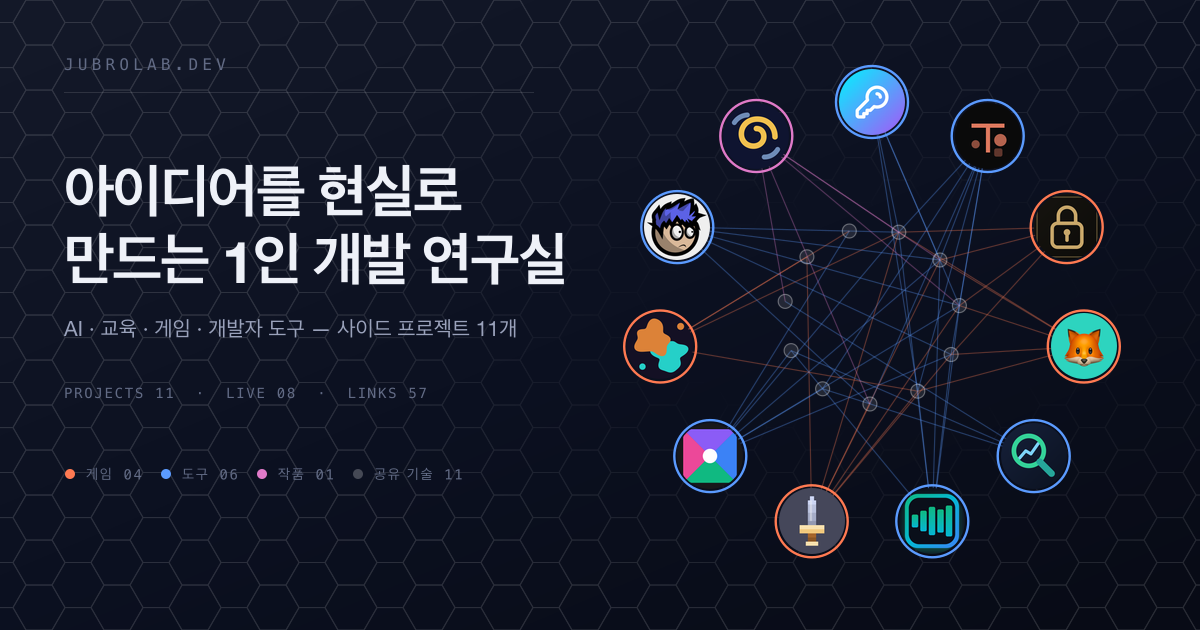
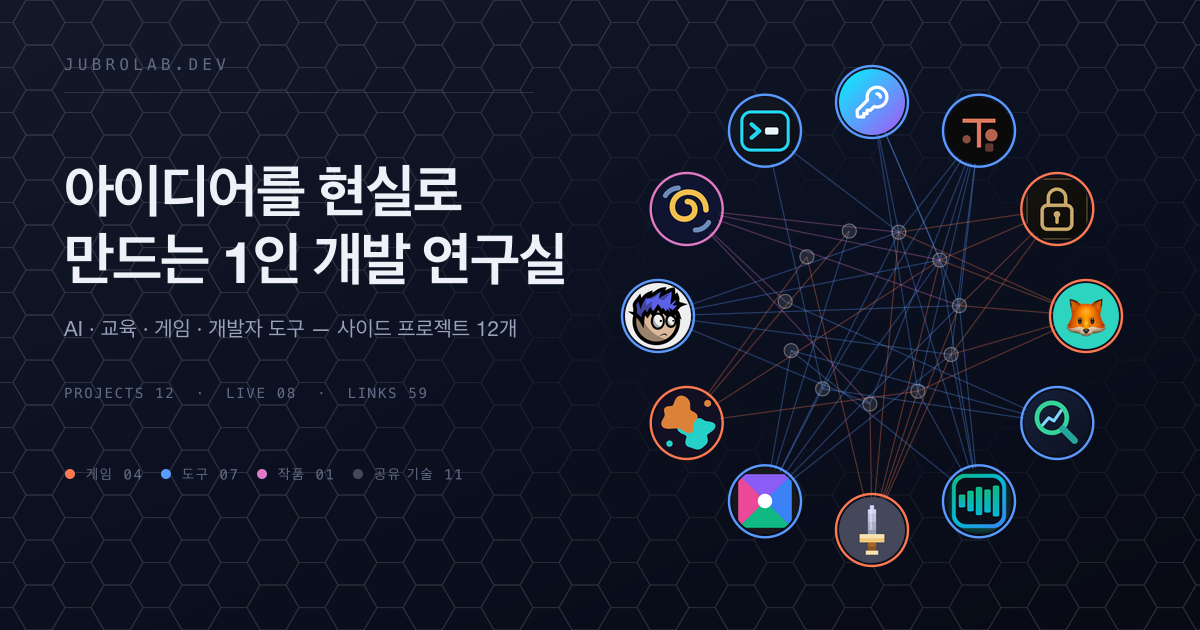
Koda CLI 를 열두 번째로 더하고 CLI 라 없는 그림을 구워 채움
터미널에서 도는 코딩 에이전트라 열한 개와 결이 다르다. tech 는 저장소를 보고
둘만 넣었다 — React 는 Ink 가 DOM 대신 터미널로 조정하느라 react 18 을 진짜
의존성으로 들고 있어서 넣고, TypeScript 는 .ts 가 한 개도 없어 뺐다. 화면
기술이 아니라 "무엇으로 UI 를 짰나"가 관계이므로 그리는 곳이 브라우저가
아닌 것은 상관없다고 봤다.

status 는 building. 세 값이 웹 배포를 기준으로 나뉘어 있어 웹으로 띄울 자리가
애초에 없는 것을 담는 칸이 없었다 — 주석에 Specast(주소만 잡아둔 것)와 나란히
적어, 다음에 같은 것이 와도 헤매지 않게 했다.

아이콘도 OG 도 저장소에 없어 Stock Analyzer 처럼 구웠다. 지어내지 않고 실제
재료를 쓴다 — 시안 라운드 보더는 입력창이 쓰는 색이고, OG 의 역할 접두사와
상태줄은 README §3 의 화면 구성 그대로다. 대화 줄에서 말은 한글로만, 도구
줄은 ASCII 로만 적은 것은 Menlo 에 한글이 없어 한 줄 안에서 글꼴이 갈리기
때문이다. 같은 이유로 '⎿' 는 상자 그리기 문자로 바꿨다.

숫자는 COUNTS 가 다시 셌고(도구 7 · 선 59), 손으로 적혀 있던 "열한 개" 넷과
"도구가 여섯 개" 주석을 따라 고쳤다.

diff --git a/data/projects.ts b/data/projects.ts
@@ -1,6 +1,8 @@
 /**
  * live     — 지금 열어볼 수 있다
- * building — 주소는 잡아뒀지만 아직 배포 전이다
+ * building — 아직 만드는 중이다. 주소만 잡아둔 것(Specast)도, 웹으로 띄울 자리가
+ *            애초에 없는 것(Koda CLI)도 여기에 든다. 어느 쪽이든 상세 패널은
+ *            여는 버튼 대신 "아직 만드는 중입니다"를 낸다
  * ended    — 만들어 운영했지만 지금은 내렸다
  */
 export type ProjectStatus = 'live' | 'building' | 'ended';
@@ -66,7 +68,7 @@ export const PROJECTS: Project[] = [
     group: 'tool',
     tagline: '토큰 15종을 한 화면에서',
     blurb:
-      'UUID v1·v4·v7, Hex, Base64, API Key, JWT 스타일 Bearer, OTP까지 15종을 카테고리로 걸러 만들고 한 번에 복사합니다. 열한 개 중 가장 작지만 가장 자주 쓰는 것입니다.',
+      'UUID v1·v4·v7, Hex, Base64, API Key, JWT 스타일 Bearer, OTP까지 15종을 카테고리로 걸러 만들고 한 번에 복사합니다. 열두 개 중 가장 작지만 가장 자주 쓰는 것입니다.',
     story:
       '토큰이 필요할 때마다 검색해서 아무 사이트에나 들어가던 게 싫어서 만들었습니다. 그래서 목표가 하나였습니다 — 열면 이미 만들어져 있고, Enter로 새로 뽑고, Ctrl+C로 복사하고 끝. 비행기에서도 열리도록 PWA로 감쌌습니다.',
     notes: [
@@ -279,7 +281,7 @@ export const PROJECTS: Project[] = [
       '컴포넌트 카탈로그가 프레임워크를 모른다 — 렌더 타깃을 갈아 끼울 수 있다',
       'LLM 키는 서버 프록시 뒤에 숨긴다. Gemini·DeepSeek·Anthropic·OpenAI·Ollama 를 갈아 쓴다',
       'API Flow — 등록한 API 를 묶거나 파이프라인으로 이어 캔버스에서 시연한다',
-      '열한 개 중 가장 오래 붙잡고 있는 것. 모노레포 9패키지',
+      '열두 개 중 가장 오래 붙잡고 있는 것. 모노레포 9패키지',
     ],
     tech: ['Next.js', 'React', 'TypeScript', 'Vite', 'Tailwind', 'Supabase', 'LLM'],
     stack: [
@@ -385,6 +387,42 @@ export const PROJECTS: Project[] = [
     icon: '/icons/impastile.png',
     status: 'live',
     url: 'https://impastile.jubrolab.dev/',
+  },
+  {
+    id: 'koda-cli',
+    name: 'Koda CLI',
+    kind: 'AGENT',
+    group: 'tool',
+    tagline: '내 컴퓨터 안에서만 도는 코딩 에이전트',
+    blurb:
+      'OpenAI 호환 엔드포인트(Ollama · vLLM · 클라우드) 아무 데나 붙는 터미널 코딩 에이전트. 도구 13종과 5단계 권한, 서브에이전트·MCP·훅·스킬까지 직접 짜 넣었습니다. 화면은 React 로 그리는데 브라우저가 아니라 터미널입니다.',
+    story:
+      '"토큰 비용이 0이면 시장이 생긴다"를 확인하려고 시작했고, 그 가설은 접었습니다. 비용 함수를 잘못 적었더군요 — 로컬 추론용 GPU 값에 감가상각과 모델 갱신 락인까지 더하면, 사용한 만큼만 내는 클라우드 쪽이 오히려 예측 가능한 비용입니다. 접은 것은 "이걸로 뭘 팔겠다"였지 도구가 아닙니다. 에이전트 루프와 권한 파이프라인을 남의 코드가 아니라 내 코드로 갖게 된 쪽이 원래 목적이었고, 그건 지금도 고치고 있습니다.',
+    notes: [
+      '모델이 도구를 텍스트로 뱉으면 받아 적는다 — 작은 모델은 tool_calls 채널을 자주 놓친다. XML · 펜스 · 점 접두사 네 형식을 파서가 되받는다',
+      '권한 판단은 한 곳에만 둔다. 붙는 곳이 넷(터미널 UI · SDK · 로컬 서버 · 헤드리스)이라 복제하면 곧 어긋난다',
+      '되돌리기는 그림자 git 에 쌓는다 — ~/.koda 아래 별도 git dir 을 두고 작업 트리만 빌려, 저장소의 .git 을 건드리지 않는다',
+      '토큰은 BPE 휴리스틱으로 세고 실측 중앙값으로 배율을 학습한다. 한글은 라틴보다 두 배 넘게 먹는다',
+      '의존성 여덟 개. 마크다운 렌더러도 직접 썼고, 에이전트 루프는 React 를 모른다',
+      '기능은 늘리지 않고 조인다 — 권한 우회 차단, 스트리밍 안정성, 미완성 응답 이어쓰기가 최근에 손댄 것들이다',
+    ],
+    /* React 를 넣은 것은 Ink 가 DOM 대신 터미널로 조정(reconcile)하기 때문이다 —
+       react 18 을 진짜 의존성으로 들고 훅과 컴포넌트로 화면을 짠다. 그리는 곳이
+       브라우저가 아닐 뿐이라, "무엇으로 UI 를 짰나"라는 관계는 그대로 성립한다.
+       TypeScript 는 넣지 않는다. 전부 .js · .mjs 다. */
+    tech: ['React', 'LLM'],
+    stack: [
+      { area: '런타임', items: ['Node.js 18+ (ESM)', 'native fetch SSE'] },
+      { area: 'UI', items: ['React 18', 'Ink 5', '자체 마크다운 → ANSI 렌더러'] },
+      { area: '에이전트', items: ['function calling + 텍스트 폴백', '내장 도구 13종', '서브에이전트(task · fork)'] },
+      { area: '백엔드', items: ['Ollama (qwen3-coder:30b)', 'vLLM', 'OpenAI · Anthropic 호환'] },
+      { area: '확장', items: ['MCP (stdio · HTTP)', 'Hooks', 'Skills', '커스텀 슬래시 명령'] },
+      { area: '안전', items: ['5단계 권한 파이프라인', 'trusted folders', 'macOS sandbox-exec', '그림자 git 체크포인트'] },
+      { area: '테스트', items: ['node:test 26개 파일 (외부 의존성 0)'] },
+    ],
+    og: '/og/koda-cli.png',
+    icon: '/icons/koda-cli.png',
+    status: 'building',
   },
 ];
 

diff --git a/components/graph.tsx b/components/graph.tsx
@@ -12,7 +12,7 @@ const C = {
   game: '#ff7a52',
   tool: '#5b9bff',
   /* 셋 다 중간 채널이 0x7a 대라 나란히 놓아도 한 벌로 읽힌다. 색상환에서 파랑 반대편에
-     둔 이유는 도구가 여섯 개로 가장 큰 무리라서다 — 가장 큰 무리와 헷갈리는 쪽이
+     둔 이유는 도구가 일곱 개로 가장 큰 무리라서다 — 가장 큰 무리와 헷갈리는 쪽이
      제일 손해다. 주황(게임 넷)과는 60° 밖에 안 떨어지지만 밝기와 채도가 갈라준다. */
   art: '#e07ac9',
   tech: '#8f9ac4',

diff --git a/README.md b/README.md
@@ -1,9 +1,9 @@
 # JubroLab
 
-사이드 프로젝트 열한 개를 **관계도 한 장**으로 보여주는 소개 사이트.
+사이드 프로젝트 열두 개를 **관계도 한 장**으로 보여주는 소개 사이트.
 [jubrolab.dev](https://jubrolab.dev)
 
-목록으로 늘어놓으면 열한 개가 서로 무관한 열한 개로 읽힌다. 같은 기술을 쓴 프로젝트끼리
+목록으로 늘어놓으면 열두 개가 서로 무관한 열두 개로 읽힌다. 같은 기술을 쓴 프로젝트끼리
 선으로 이어두면 "이 사람이 무엇을 반복해서 쓰는지"가 한눈에 보인다. 그래서 첫 화면이
 목록이 아니라 그래프다.
 
@@ -11,7 +11,7 @@
 
 | 자리 | 무엇 |
 | --- | --- |
-| 가운데 | 관계도. 프로젝트 11 + 공유 기술 11, 선 57개. 노드를 끌어 흩을 수 있다 |
+| 가운데 | 관계도. 프로젝트 12 + 공유 기술 11, 선 59개. 노드를 끌어 흩을 수 있다 |
 | 프로젝트 노드 | 누르면 오른쪽에 상세(왜 만들었는지 · 짚어둘 것 · 스택)가 열린다 |
 | 왼쪽 아래 | 기술 필터 11개. 고르면 그 기술을 쓴 프로젝트만 남는다 |
 | 오른쪽 위 | 분류 필터(게임 · 도구 · 작품). 기술 필터와 함께 걸린다 |
@@ -43,7 +43,7 @@ npx tsc --noEmit
 ```bash
 npm run glyphs   # 기술 글리프 → data/tech-icons.ts (simple-icons + 없는 것은 직접 그림)
 npm run icons    # 각 프로젝트 저장소의 앱 아이콘 → public/icons/*.png (512 정규화)
-npm run og       # 저장소에 OG 이미지가 없는 셋을 만든다 → public/og/
+npm run og       # 저장소에 OG 이미지가 없는 넷을 만든다 → public/og/
 npm run brand    # 파비콘(app/icon.svg)과 사이트 OG 카드
 node scripts/make-honeycomb.mjs   # 바탕 벌집의 '채운 칸' 레이어 → globals.css 에 붙이는 base64
 ```
@@ -66,7 +66,7 @@ components/
   brand-mark.tsx  파비콘과 같은 도형의 브랜드 마크
 data/
   site.ts         배포 도메인(https://jubrolab.dev). 절대 주소는 전부 여기서 나온다
-  projects.ts     프로젝트 11개와 공유 태그
+  projects.ts     프로젝트 12개와 공유 태그
   tech-icons.ts   기술 글리프의 path(생성물) — 칩(SVG)과 캔버스(Path2D)가 같은 문자열을 쓴다
 design/           초기 시안 5종(정적 HTML). 05-graph 가 지금 사이트가 됐다
 scripts/          생성물을 굽는 스크립트
@@ -75,7 +75,7 @@ reference/DATA.md 각 프로젝트의 주소와 로컬 저장소 경로
 
 ## 만들면서 정한 것
 
-- **바탕은 무채색.** 아이콘 11개가 이미 모든 색을 갖고 있어서, 바탕에 컬러 빛무리를
+- **바탕은 무채색.** 아이콘 12개가 이미 모든 색을 갖고 있어서, 바탕에 컬러 빛무리를
   깔면 노드의 발광과 세기가 겹쳐 서로를 깎았다.
 - **벌집은 화면 전체에.** 가운데를 마스크로 지워 관계도 자리를 비워봤더니 그 타원이
   오히려 인위적으로 보였다. 지금은 패턴을 고르게 깔고 부드러운 어둠(`.veil`) 한 겹으로

diff --git a/reference/DATA.md b/reference/DATA.md
@@ -42,6 +42,13 @@
 - https://story-hacker.jubrolab.dev/
 - /Users/jangtaegyu/Desktop/ToyProject/story-hacker
 
+## Koda CLI
+
+- [웹 배포 없음] 터미널에서 도는 CLI (`npm i -g` · `npm link`)
+- /Users/jangtaegyu/Desktop/ToyProject/koda-cli
+  - 아이콘도 OG 도 저장소에 없다. 둘 다 `collect-icons.mjs` 의 `DRAWN` 과
+    `make-og.mjs` 에서 굽는다 — Stock Analyzer 와 같은 처지다.
+
 ## Impastile
 
 - https://impastile.jubrolab.dev/

diff --git a/CLAUDE.md b/CLAUDE.md
@@ -2,7 +2,7 @@
 
 # JubroLab
 
-사이드 프로젝트 열한 개를 관계도 한 장으로 보여주는 소개 사이트. 한 화면이 전부고
+사이드 프로젝트 열두 개를 관계도 한 장으로 보여주는 소개 사이트. 한 화면이 전부고
 스크롤이 없다(`body { overflow: hidden }`). 사람이 읽을 설명은 `README.md`.
 
 ## 명령
